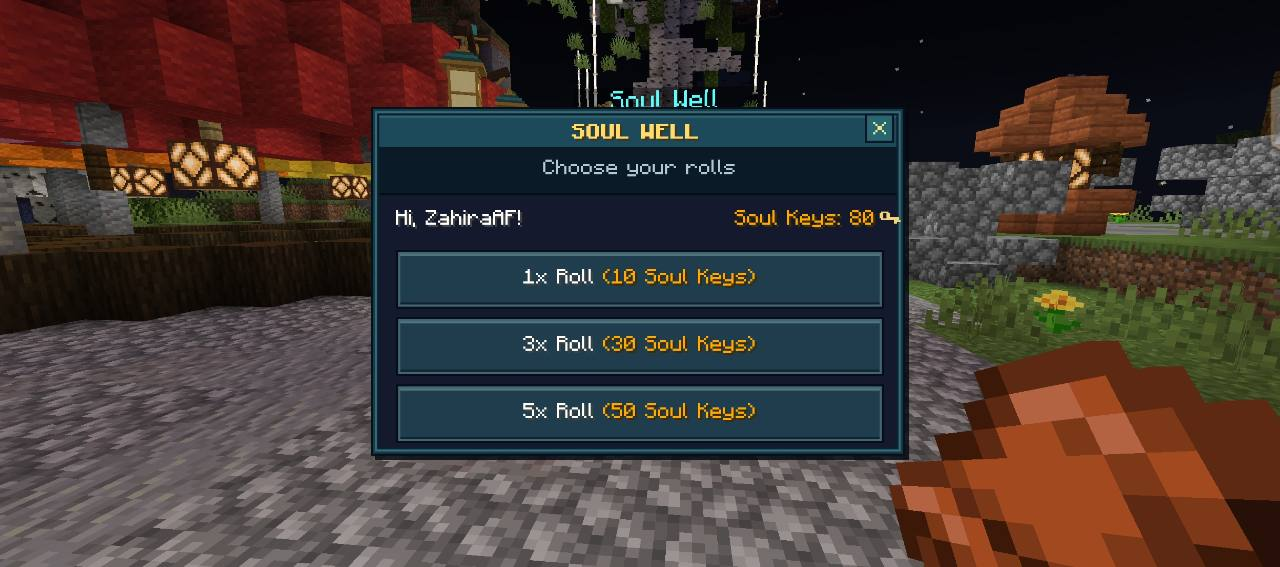
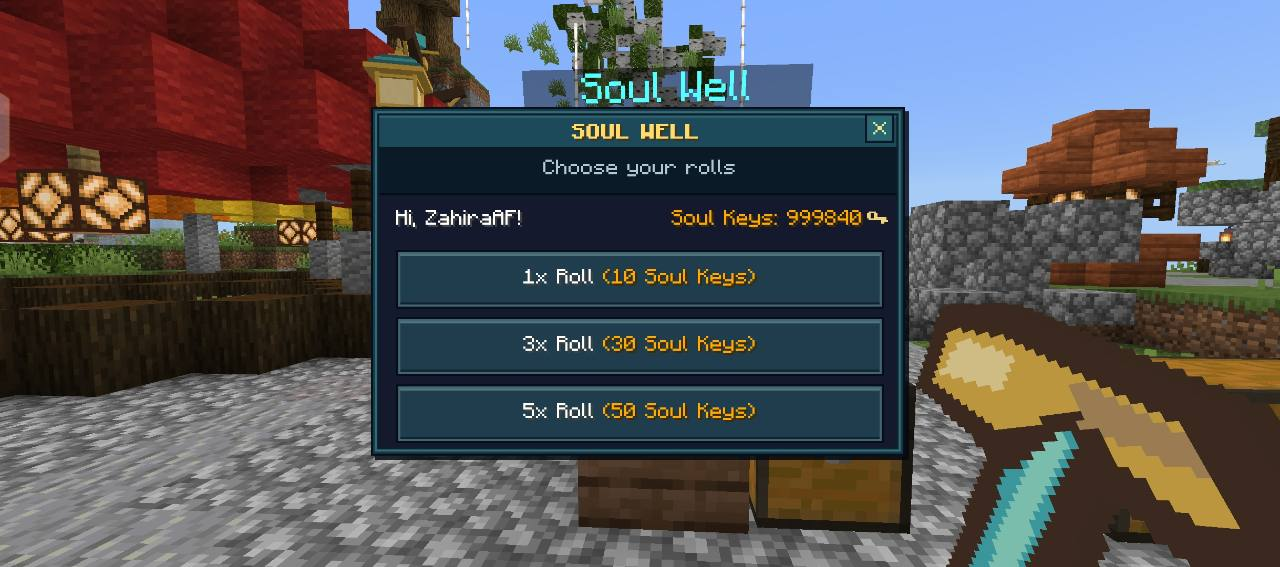
ganti screenshot terbaru yg seragam, hapus foto sama dokumentasi lama

diff --git a/README.md b/README.md
@@ -5,7 +5,6 @@
   <i>Development Version: <b>v1.7.5</b> | Supports PMMP API 5.27.0+</i>
 </p>
 
-<table> <tr> <td><img src="https://1.bp.blogspot.com/-olWvczoyzGc/XvgRyuHRH9I/AAAAAAAAAC8/yVPSF1naxAAWVzvuxGslbDrKUceYKiqGgCK4BGAsYHg/s1920/Screenshot_2020-06-28-10-35-27-306_com.mojang.png" width="600"/></td> <td><img src="https://1.bp.blogspot.com/-QkEkQaUq5cY/XvgRyak50TI/AAAAAAAAAC4/x-64flc0ptkAwM-fPSd-tGJbyNMcX1FWwCK4BGAsYHg/s1920/Screenshot_2020-06-28-10-35-35-368_com.mojang.png" width="600"/></td> <td><img src="https://i.imgur.com/olhFvPl.png" width="600"/></td> </tr> </table>
 
 ---
 
@@ -32,7 +31,7 @@ Compatible with **PocketMine-MP API 5.0.0 - 5.27.0+**
 - **SoulWell-Only Inventory Design**: Dedicated vertical 1x, 3x, and 5x reward reels use actual container items and stack counts. Regular chests and unrelated forms keep their existing layouts.
 - **Resource Pack Compatibility**: The pack is rebuilt automatically on startup, preserving the existing form dispatcher and shared UI definitions from other server packs.
 
-The `dev` branch contains the v1.7.5 UI update, including login pack priority, marker-based container routing, and additional padding for the Soul Keys icon. Both classic and data-driven container screens recognize SoulWell roll menus. The published download above remains v1.6.5 until a new release is published. After a UI pack update, reconnect to the server to load the new pack. See [UI integration notes](docs/SOULWELL-UI.md) for build instructions and validation limits.
+The `dev` branch contains the v1.7.5 UI update, including login pack priority, marker-based container routing, and additional padding for the Soul Keys icon. Both classic and data-driven container screens recognize SoulWell roll menus. The published download above remains v1.6.5 until a new release is published. After a UI pack update, reconnect to the server to load the new pack.
 
 ---
 
@@ -40,7 +39,7 @@ The `dev` branch contains the v1.7.5 UI update, including login pack priority, m
 
 ### Nautic SoulWell JSON UI
 
-The current `dev` interface features a navy-and-cyan confirmation menu and vertical reward reels with gold selection markers. The screenshots below show the confirmation menu and all three roll modes in Minecraft Bedrock. The roll panels show the v1.7.5 interface verified in-game.
+The current `dev` interface features a navy-and-cyan confirmation menu and vertical reward reels with gold selection markers. The screenshots below show the confirmation menu and all three roll modes in Minecraft Bedrock. These matching screenshots show the v1.7.5 interface verified in-game.
 
 <table align="center">
   <tr>
@@ -57,30 +56,7 @@ The current `dev` interface features a navy-and-cyan confirmation menu and verti
   </tr>
   <tr>
     <td><img src="screenshots/nautic_roll_3x.jpg" alt="Nautic SoulWell three reward reels with a gold selection row" width="450"/></td>
-    <td><img src="screenshots/nautic_roll_5x.jpg" alt="Nautic SoulWell five reward reels with a gold selection row" width="450"/></td>
-  </tr>
-</table>
-
-### Previous Interface (v1.6.5)
-
-These screenshots show the previous v1.6.5 interface and are retained as a record of the working roll system.
-
-<table align="center">
-  <tr>
-    <td align="center"><b>Multi-Roll Selection Menu</b></td>
-    <td align="center"><b>1x Roll GUI</b></td>
-  </tr>
-  <tr>
-    <td><img src="screenshots/confirm_menu.jpg" width="450"/></td>
-    <td><img src="screenshots/roll_1x.jpg" width="450"/></td>
-  </tr>
-  <tr>
-    <td align="center"><b>3x Multi-Roll GUI</b></td>
-    <td align="center"><b>5x Multi-Roll GUI</b></td>
-  </tr>
-  <tr>
-    <td><img src="screenshots/roll_3x.jpg" width="450"/></td>
-    <td><img src="screenshots/roll_5x.jpg" width="450"/></td>
+    <td><img src="screenshots/nautic_roll_5x.jpg" alt="SoulWell 5x Roll" width="450"/></td>
   </tr>
 </table>
 
